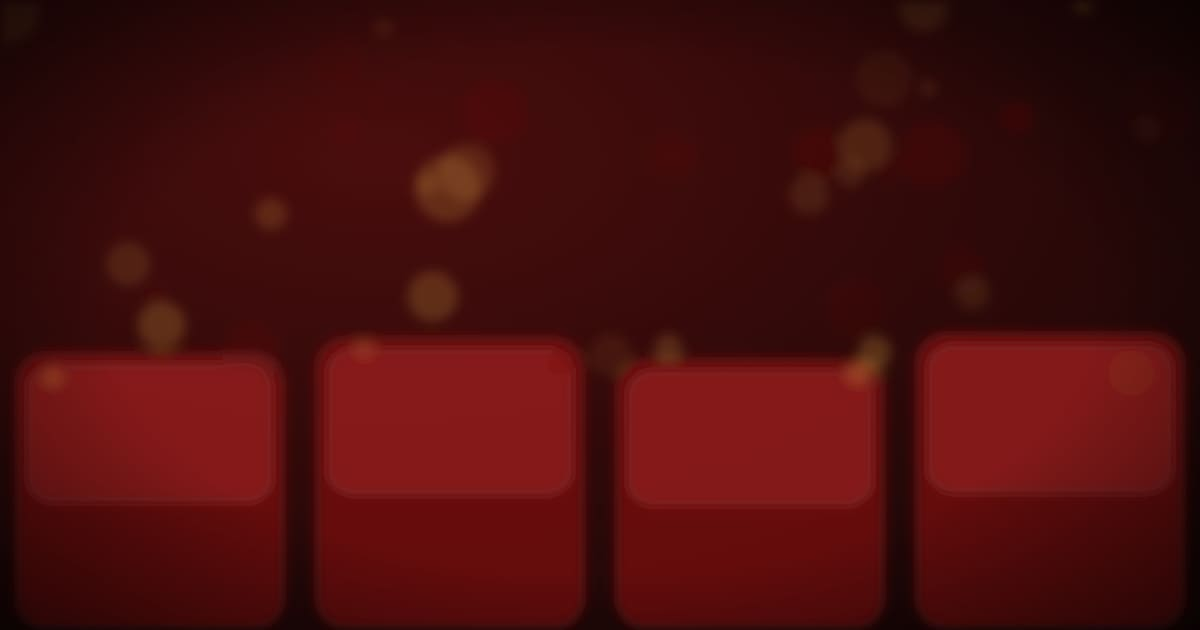
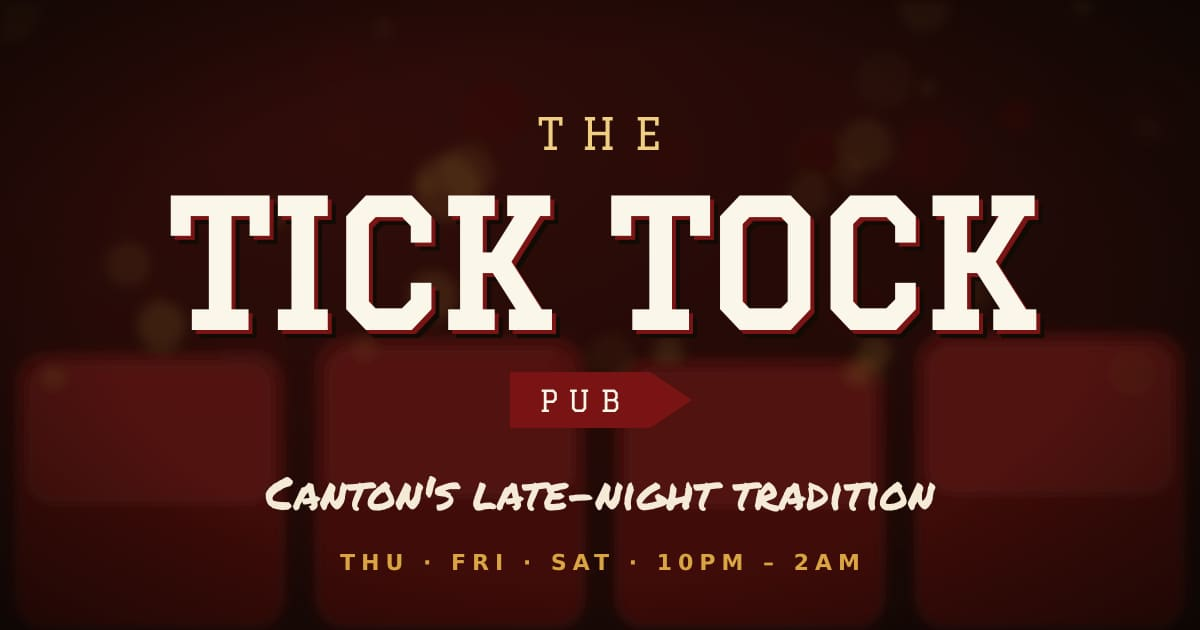
Align content with public facts for the owner preview
Use the 9-11 Hodskin St property address, add the caricatures, murals,
fireplaces and "the Ticker" nickname, drop the invented Instagram
handle and cover price, and label sample events and photos while
site.preview is on. Link previews now use the Vercel deployment URL
and the share image carries the wordmark.

Claude-Session: https://claude.ai/code/session_01Ef2avjxyQUCGCvBhszbHaK

diff --git a/content/site.ts b/content/site.ts
@@ -1,8 +1,8 @@
 /**
  * All editable site content lives here.
  *
- * Anything marked [CONFIRM] is a best guess that should be checked with
- * the bar before going live. Search this file for "CONFIRM" to find them.
+ * Anything marked [CONFIRM] is a best guess or sample content that should be
+ * checked with the owner before going live. Search this file for "CONFIRM".
  */
 
 export type Weekday = 0 | 1 | 2 | 3 | 4 | 5 | 6; // 0 = Sunday
@@ -38,11 +38,16 @@ export const site = {
   tagline: "Canton's late-night tradition",
   description:
     "The Tick Tock Pub is Canton, NY's late-night college bar and dance floor: red booths, two bars, a DJ, and the night everybody ends up at.",
+  /** Fallback only; on Vercel the deployment URL is used automatically (see lib/siteUrl.ts). */
   url: "https://ticktockpub.vercel.app", // [CONFIRM] swap for the real domain
   timezone: "America/New_York",
 
   address: {
-    street: "11 Hodskin St", // [CONFIRM] listings show both 9 and 11 Hodskin St
+    // The property is 9–11 Hodskin St (per 2024 local news coverage of the sale);
+    // listings use 9 or 11 interchangeably.
+    street: "9–11 Hodskin St",
+    /** Single street number used for map searches and directions */
+    mapStreet: "11 Hodskin St",
     city: "Canton",
     region: "NY",
     postalCode: "13617",
@@ -50,9 +55,17 @@ export const site = {
   },
 
   instagram: {
-    handle: "@theticktockpub", // [CONFIRM] placeholder handle
-    url: "https://www.instagram.com/theticktockpub/", // [CONFIRM]
+    // [CONFIRM] No official account found yet. Set e.g. "@handle" and the
+    // profile URL; while handle is null the site just says "Instagram".
+    handle: null as string | null,
+    url: "https://www.instagram.com/",
   },
+
+  /**
+   * Concept-preview mode: labels sample events, specials and photos as such.
+   * Set to false once real content is in.
+   */
+  preview: true,
 
   /** Thursday–Saturday, 10pm–2am */
   openNights: [
@@ -61,7 +74,7 @@ export const site = {
     { day: 6, open: "22:00", close: "02:00" },
   ] satisfies OpenNight[] as OpenNight[],
 
-  /** Placeholder events. Edit freely; one card renders per entry. */
+  /** [CONFIRM] Sample events and specials for the concept. One card renders per entry. */
   thisWeek: [
     {
       day: 4,
@@ -91,24 +104,26 @@ export const site = {
 
   knowBeforeYouGo: {
     hours: "Thu – Sat · 10pm – 2am",
-    cover: "Cover varies by night, typically $5 – $10. Cash and card at the door.", // [CONFIRM]
+    cover: "Cover varies by night. Check Instagram for the night's details.", // [CONFIRM]
     id: "21+ only. A valid, unexpired government-issued photo ID is required every night. No exceptions, no photocopies.",
-    dress: "Come as you are. Jerseys encouraged on Fridays.",
+    dress: "Come as you are.", // [CONFIRM]
     parking:
-      "Street parking on Hodskin St and Main St, plus nearby municipal lots. Better yet: walk, carpool with a sober driver, or grab a ride home.", // [CONFIRM]
+      "Downtown street parking nearby. Better yet: walk, carpool with a sober driver, or grab a ride home.", // [CONFIRM]
   },
 
   space: {
     heading: "The Space",
     body: [
-      "Oxblood leather booths worn soft by a few thousand Thursdays. Wood floors that have seen every dance move since before you were born. Two bars, so the line is never as bad as it looks.",
-      "Grab a booth up front, then follow the bass to the back, where the DJ runs the floor until last call.",
+      "Everybody calls it the Ticker. Oxblood leather booths worn soft by generations of Thursdays, warm wood floors, and the caricatures, murals and fireplaces that make it unmistakably the Tock.",
+      "Two bars, so the line is never as bad as it looks. Grab a booth up front, then follow the bass to the back, where the DJ runs the floor until last call.",
     ],
     features: [
       { title: "Red Booths", text: "Cherry leather seating, perfect for the pregame recap." },
       { title: "Two Bars", text: "Front bar for catching up, back bar for the dance floor." },
-      { title: "Wood Floors", text: "Warm oak boards under every step." },
+      { title: "Wood Floors", text: "Warm wooden boards under every step." },
       { title: "Dance Floor + DJ", text: "Lights down, volume up, every open night." },
+      { title: "Caricatures & Murals", text: "The walls are part of the legend. They're staying put." },
+      { title: "Fireplaces", text: "Warmth for a North Country winter night." },
     ],
   },
 
@@ -116,7 +131,7 @@ export const site = {
     hero: { src: "/images/hero.jpg", alt: "Low-lit interior of The Tick Tock Pub with red booths and the bar glowing", width: 2400, height: 1500 },
     space: [
       { src: "/images/space-booths.jpg", alt: "Row of deep red leather booths", width: 1200, height: 1500 },
-      { src: "/images/space-front-bar.jpg", alt: "Wood-paneled front bar with brass rail", width: 1600, height: 1100 },
+      { src: "/images/space-front-bar.jpg", alt: "Wood-paneled front bar", width: 1600, height: 1100 },
       { src: "/images/space-floor.jpg", alt: "Warm wooden floorboards under string lights", width: 1600, height: 1100 },
       { src: "/images/space-back-bar.jpg", alt: "Back bar beside the dance floor", width: 1200, height: 1500 },
       { src: "/images/space-dj.jpg", alt: "DJ booth lit up over a packed dance floor", width: 2000, height: 1100 },
@@ -155,5 +170,11 @@ export function fullAddress() {
 }
 
 export function mapsQuery() {
-  return encodeURIComponent(`The Tick Tock Pub, ${fullAddress()}`);
+  const a = site.address;
+  return encodeURIComponent(`Tick Tock, ${a.mapStreet}, ${a.city}, ${a.region} ${a.postalCode}`);
+}
+
+/** How to refer to the Instagram account in copy: the handle if known, else "Instagram". */
+export function instagramLabel() {
+  return site.instagram.handle ?? "Instagram";
 }

diff --git a/app/layout.tsx b/app/layout.tsx
@@ -1,7 +1,8 @@
 import type { Metadata, Viewport } from "next";
 import { DM_Sans, Graduate, Permanent_Marker } from "next/font/google";
-import { site, fullAddress, DAY_NAMES } from "@/content/site";
+import { site, mapsQuery, DAY_NAMES } from "@/content/site";
 import MotionProvider from "@/components/MotionProvider";
+import { siteUrl } from "@/lib/siteUrl";
 import "./globals.css";
 
 const graduate = Graduate({ weight: "400", subsets: ["latin"], variable: "--font-graduate", display: "swap" });
@@ -9,7 +10,7 @@ const dmSans = DM_Sans({ subsets: ["latin"], variable: "--font-dm-sans", display
 const marker = Permanent_Marker({ weight: "400", subsets: ["latin"], variable: "--font-marker", display: "swap" });
 
 export const metadata: Metadata = {
-  metadataBase: new URL(site.url),
+  metadataBase: new URL(siteUrl()),
   title: {
     default: `${site.name} · ${site.tagline}`,
     template: `%s · ${site.name}`,
@@ -39,8 +40,8 @@ const jsonLd = {
   "@type": "BarOrPub",
   name: site.name,
   description: site.description,
-  url: site.url,
-  image: `${site.url}/images/og.jpg`,
+  url: siteUrl(),
+  image: `${siteUrl()}/images/og.jpg`,
   address: {
     "@type": "PostalAddress",
     streetAddress: site.address.street,
@@ -55,8 +56,8 @@ const jsonLd = {
     opens: n.open,
     closes: n.close,
   })),
-  sameAs: [site.instagram.url],
-  hasMap: `https://www.google.com/maps/search/?api=1&query=${encodeURIComponent(fullAddress())}`,
+  ...(site.instagram.handle ? { sameAs: [site.instagram.url] } : {}),
+  hasMap: `https://www.google.com/maps/search/?api=1&query=${mapsQuery()}`,
 };
 
 export default function RootLayout({ children }: { children: React.ReactNode }) {

diff --git a/components/Gallery.tsx b/components/Gallery.tsx
@@ -1,5 +1,5 @@
 import Image from "next/image";
-import { site } from "@/content/site";
+import { site, instagramLabel } from "@/content/site";
 import SectionHeading from "./SectionHeading";
 import { InstagramIcon } from "./icons";
 
@@ -7,7 +7,7 @@ export default function Gallery() {
   return (
     <section id="gallery" tabIndex={-1} className="grain relative bg-walnut-950 py-24 outline-none sm:py-32">
       <div className="relative z-10 mx-auto max-w-7xl px-4 sm:px-6">
-        <SectionHeading eyebrow="Last Weekend" title="Gallery" intro="Proof you were there. Tag us to get featured." />
+        <SectionHeading eyebrow="Last Weekend" title="Gallery" intro={site.preview ? "Proof you were there. (Placeholder shots for now; real nights coming soon.)" : "Proof you were there. Tag us to get featured."} />
         <ul className="columns-2 gap-4 sm:gap-5 md:columns-3">
           {site.images.gallery.map((img, i) => (
             <li key={img.src} data-reveal className="mb-4 break-inside-avoid sm:mb-5">
@@ -39,7 +39,7 @@ export default function Gallery() {
             className="inline-flex items-center gap-3 rounded-md border-2 border-brass-400 bg-oxblood-700 px-7 py-3 font-display text-lg tracking-widest text-cream-50 shadow-[4px_4px_0_0_#000] transition-transform hover:-translate-y-0.5"
           >
             <InstagramIcon className="h-5 w-5" />
-            More on {site.instagram.handle}
+            More on {instagramLabel()}
           </a>
         </div>
       </div>

diff --git a/components/Nav.tsx b/components/Nav.tsx
@@ -1,7 +1,7 @@
 "use client";
 
 import { useEffect, useState } from "react";
-import { site } from "@/content/site";
+import { site, instagramLabel } from "@/content/site";
 import { InstagramIcon } from "./icons";
 import OpenBadge from "./OpenBadge";
 
@@ -54,7 +54,7 @@ export default function Nav() {
             href={site.instagram.url}
             target="_blank"
             rel="noopener noreferrer"
-            aria-label={`Instagram ${site.instagram.handle}`}
+            aria-label={`Follow on ${instagramLabel()}`}
             className="hidden rounded-full p-2 text-cream-100 transition-colors hover:text-brass-300 sm:block"
           >
             <InstagramIcon className="h-5 w-5" />
@@ -90,7 +90,7 @@ export default function Nav() {
           <li className="mt-2 flex items-center justify-between border-t border-cream-50/10 pt-4">
             <OpenBadge />
             <a href={site.instagram.url} target="_blank" rel="noopener noreferrer" className="text-brass-300">
-              {site.instagram.handle}
+              {instagramLabel()}
             </a>
           </li>
         </ul>

diff --git a/components/Footer.tsx b/components/Footer.tsx
@@ -1,4 +1,4 @@
-import { site, fullAddress } from "@/content/site";
+import { site, fullAddress, instagramLabel } from "@/content/site";
 import { InstagramIcon } from "./icons";
 
 export default function Footer() {
@@ -25,7 +25,7 @@ export default function Footer() {
               className="inline-flex items-center gap-2 text-lg text-cream-50 transition-colors hover:text-brass-300"
             >
               <InstagramIcon className="h-5 w-5" />
-              {site.instagram.handle}
+              {instagramLabel()}
             </a>
           </div>
         </div>
@@ -34,6 +34,7 @@ export default function Footer() {
           <p className="font-semibold text-cream-100">{site.legal.responsibly}</p>
           <p>
             © {year} {site.name}. All rights reserved.
+            {site.preview && <span className="block text-xs text-cream-300/70 md:inline md:pl-2">Concept preview · sample events &amp; photos</span>}
           </p>
         </div>
       </div>

diff --git a/components/ThisWeek.tsx b/components/ThisWeek.tsx
@@ -1,4 +1,4 @@
-import { site, DAY_NAMES, type WeekEvent } from "@/content/site";
+import { site, DAY_NAMES, instagramLabel, type WeekEvent } from "@/content/site";
 import SectionHeading from "./SectionHeading";
 import TonightBadge from "./TonightBadge";
 
@@ -27,9 +27,10 @@ export default function ThisWeek() {
           ))}
         </ul>
         <p data-reveal className="mt-12 text-center text-sm text-cream-300">
-          Lineups and specials change. Check{" "}
+          {site.preview ? "Sample nights and specials shown. " : "Lineups and specials change. "}
+          Check{" "}
           <a href={site.instagram.url} target="_blank" rel="noopener noreferrer" className="font-semibold text-brass-300 underline-offset-4 hover:underline">
-            {site.instagram.handle}
+            {instagramLabel()}
           </a>{" "}
           for night-of updates.
         </p>

diff --git a/lib/siteUrl.ts b/lib/siteUrl.ts
@@ -1,0 +1,16 @@
+import { site } from "@/content/site";
+
+/**
+ * Absolute base URL for metadata, Open Graph images, robots and sitemap.
+ * NEXT_PUBLIC_SITE_URL wins; otherwise Vercel's system env vars are used so
+ * link previews work on any deployment without extra config.
+ */
+export function siteUrl(): string {
+  const env = process.env;
+  if (env.NEXT_PUBLIC_SITE_URL) return env.NEXT_PUBLIC_SITE_URL.replace(/\/$/, "");
+  if (env.VERCEL_ENV === "production" && env.VERCEL_PROJECT_PRODUCTION_URL) {
+    return `https://${env.VERCEL_PROJECT_PRODUCTION_URL}`;
+  }
+  if (env.VERCEL_URL) return `https://${env.VERCEL_URL}`;
+  return site.url;
+}

diff --git a/components/TheSpace.tsx b/components/TheSpace.tsx
@@ -12,7 +12,7 @@ export default function TheSpace() {
       <div className="relative z-10 mx-auto max-w-7xl px-4 sm:px-6">
         <div className="grid gap-12 lg:grid-cols-[1fr_1.2fr] lg:gap-16">
           <div className="lg:sticky lg:top-28 lg:self-start">
-            <SectionHeading eyebrow="Est. Downtown" title={site.space.heading} align="left" />
+            <SectionHeading eyebrow="Inside the Tock" title={site.space.heading} align="left" />
             <div data-reveal className="space-y-5 text-lg leading-relaxed text-cream-200">
               {site.space.body.map((p) => (
                 <p key={p}>{p}</p>

diff --git a/app/robots.ts b/app/robots.ts
@@ -1,6 +1,6 @@
 import type { MetadataRoute } from "next";
-import { site } from "@/content/site";
+import { siteUrl } from "@/lib/siteUrl";
 
 export default function robots(): MetadataRoute.Robots {
-  return { rules: { userAgent: "*", allow: "/" }, sitemap: `${site.url}/sitemap.xml` };
+  return { rules: { userAgent: "*", allow: "/" }, sitemap: `${siteUrl()}/sitemap.xml` };
 }

diff --git a/app/sitemap.ts b/app/sitemap.ts
@@ -1,6 +1,6 @@
 import type { MetadataRoute } from "next";
-import { site } from "@/content/site";
+import { siteUrl } from "@/lib/siteUrl";
 
 export default function sitemap(): MetadataRoute.Sitemap {
-  return [{ url: site.url, changeFrequency: "weekly", priority: 1 }];
+  return [{ url: siteUrl(), changeFrequency: "weekly", priority: 1 }];
 }

diff --git a/README.md b/README.md
@@ -31,7 +31,9 @@ npm run dev        # http://localhost:3000
 
 ## Deploying to Vercel
 
-No config needed. Import the repo in Vercel (or run `npx vercel`) and every branch push gets a preview URL. Once you have a real domain, update `site.url` in `content/site.ts`; it drives the canonical/OG URLs, `robots.txt`, and `sitemap.xml`.
+No config needed. Import the repo in Vercel (or run `npx vercel`) and every branch push gets a preview URL. Link previews, `robots.txt` and `sitemap.xml` use the Vercel deployment URL automatically. For a custom domain, set the `NEXT_PUBLIC_SITE_URL` environment variable in Vercel.
+
+> **Heads-up:** Vercel protects *preview* deployments (branch URLs) behind a Vercel login by default. To share a link with someone outside your Vercel team, use the production deployment (the `main` branch), or turn off Deployment Protection under Project → Settings.
 
 ## Editing content
 
@@ -49,16 +51,33 @@ No config needed. Import the repo in Vercel (or run `npx vercel`) and every bran
 - **Accessibility:** a skip link, keyboard-reachable nav, visible focus rings, and `alt` text on every image. If the visitor sets `prefers-reduced-motion`, Lenis and all GSAP animations are switched off and content shows immediately. If JavaScript fails, a 4-second fallback un-hides content that was waiting to be revealed.
 - **SEO:** metadata, Open Graph image, `BarOrPub` JSON-LD with opening hours, `robots.txt`, and `sitemap.xml`.
 
-## Assumptions (please confirm)
+## Facts and sources
 
-1. **Address:** listings disagree between 9 and 11 Hodskin St. I used **11 Hodskin St, Canton, NY 13617**. The map pin and directions link search for "The Tick Tock Pub" plus the address, so Google should still find the right spot.
-2. **Hours:** confirmed as **Thursday–Saturday, 10pm–2am**.
-3. **Instagram:** `@theticktockpub` is a **placeholder handle**. Swap in the real one.
-4. **Cover:** "$5–$10, varies by night" is a placeholder.
-5. **Events and specials:** the three nights (Throwback Thursday, Friday Night Lights, Saturday Main Event) and their specials are made up. Edit them weekly.
-6. **ID policy, dress code, parking:** generic, sensible wording, not the bar's official policy.
-7. **Photos:** all images are generated on-brand placeholders labelled "PHOTO PLACEHOLDER" (see `scripts/generate-placeholders.mjs`). Replace them with real photos before launch.
-8. **Domain:** `site.url` is set to `https://ticktockpub.vercel.app` as a stand-in.
-9. **Map:** uses the keyless Google Maps embed (`output=embed`), so no API key or billing is needed.
-10. **Branding:** the collegiate look is generic and original. There are no St. Lawrence University or SUNY Canton names, logos, seals, or official colors.
-11. **Framework version:** the brief asked for Next.js 15+. I used the current stable release, 16.x, which has the same App Router APIs.
+This is a **concept preview** to show the owner. With `site.preview: true` in `content/site.ts`, the site labels sample events and photos as samples. Set it to `false` once real content is in.
+
+What's based on public sources:
+
+- **Address: 9–11 Hodskin St, Canton, NY 13617.** Local coverage of the 2024 sale describes the property as 9–11 Hodskin Street, which is why listings show both numbers. Map and directions links search for "Tick Tock, 11 Hodskin St".
+- **"The Ticker":** the students' nickname for the bar, used by St. Lawrence's student paper.
+- **Caricatures, murals and fireplaces:** reported as features the new ownership is keeping.
+- **Hours: Thursday–Saturday, 10pm–2am,** as provided for this build.
+- **Interior:** red booths, wood floors, front and back bars, and a dance floor with a DJ, as described in the brief.
+
+Sources:
+- [North Country Now: "New Tick Tock owner ready to revitalize historic Canton landmark"](https://northcountrynow.com/stories/new-tick-tock-owner-ready-to-revitalize-historic-canton-landmark,254578)
+- [NNY360 / Watertown Daily Times: "New Tick Tock owner wants to revitalize historic downtown spot in Canton"](https://www.nny360.com/communitynews/business/new-tick-tock-owner-wants-to-revitalize-historic-downtown-spot-in-canton/article_47238e6c-fb61-54cb-93f1-f566935178fc.html)
+- [The Hill News: "Farewell to Ticker"](https://thehillnews.org/opinions/noragraves/farewell-to-ticker-embracing-change-at-slu/)
+
+## Still to confirm with the owner
+
+Search `content/site.ts` for `[CONFIRM]`.
+
+1. **Name:** the site uses "The Tick Tock Pub". Public listings also say "Tick Tock Inn" or just "Tick Tock".
+2. **Instagram:** no official account found. While `instagram.handle` is `null`, the site just says "Instagram" and links to instagram.com.
+3. **Events and specials:** the three nights (Throwback Thursday, Friday Night Lights, Saturday Main Event) and their specials are samples.
+4. **Cover, dress code, parking:** neutral wording, not an official policy. No cover price is stated.
+5. **Photos:** all images are generated on-brand placeholders labelled "PHOTO PLACEHOLDER" (see `scripts/generate-placeholders.mjs`). The share image (`og.jpg`) shows the wordmark.
+6. **Domain:** on Vercel the deployment URL is picked up automatically (`lib/siteUrl.ts`). Set `NEXT_PUBLIC_SITE_URL` once there's a custom domain.
+7. **Map:** uses the keyless Google Maps embed, so no API key or billing is needed.
+8. **Branding:** the collegiate look is generic and original. There are no St. Lawrence University or SUNY Canton names, logos, seals, or official colors.
+9. **Framework version:** the brief asked for Next.js 15+. This uses the current stable release, 16.x.
